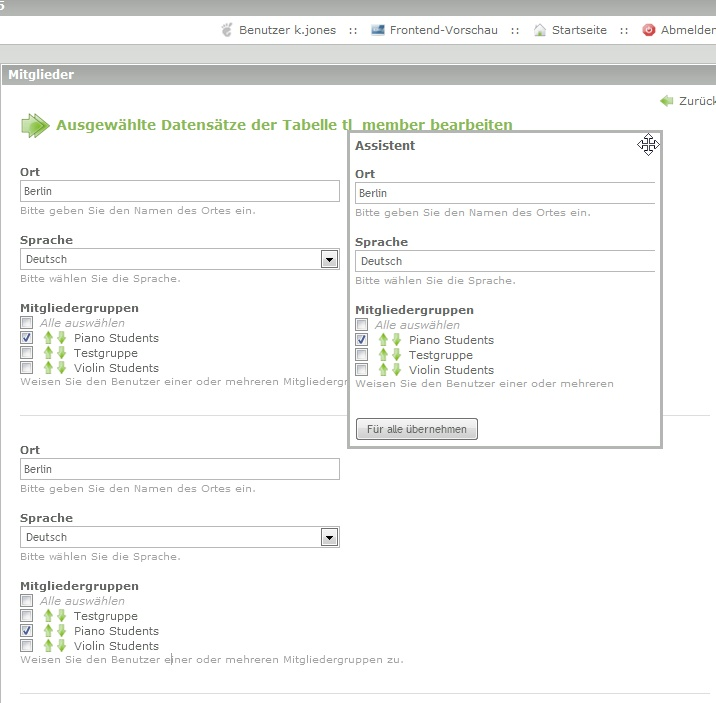
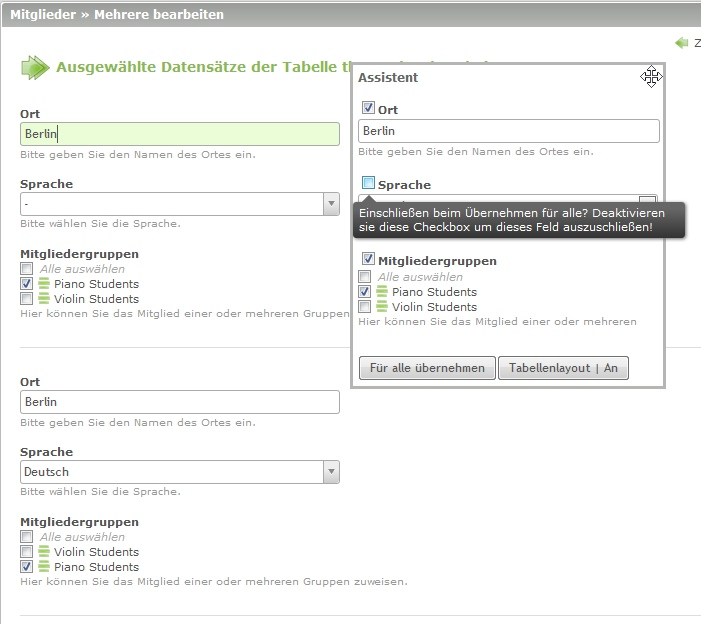
Fixes some CSS and JS Problems and adds excluding fields when applying to all

Changed region(s): [[0.0, 0.0, 1.0, 0.6394], [0.03, 0.609, 0.5692, 0.9439]]

diff --git a/system/modules/BackendMultiEditAssistant/html/assistant.js b/system/modules/BackendMultiEditAssistant/html/assistant.js
@@ -1,12 +1,12 @@
 window.addEvent('domready',function(){var assistant=new Element('div',{'class':'tl_assistant','id':'multiEditAssistant'}).inject($('main'));var assistantContainer=new Element('div',{'class':'tl_assistant_container'}).inject(assistant);var firstElement=null;var elements=$('main').getElements('.tl_form')[0].getElements('.tl_tbox');if(elements.length>0){Array.each(elements,function(element){if(firstElement==null){firstElement=element;}});}
-var clone=firstElement.clone(true,true).cloneEvents(firstElement);clone.inject(assistantContainer);var fields=clone.getElements('[id^=ctrl_]');Array.each(fields,function(field){field.id=field.id.substring(0,field.id.lastIndexOf("_"));field.addEvent("click",function(){field.focus();});});fields=clone.getElements('[id^=opt_]');Array.each(fields,function(field){field.id=field.id.substring(0,field.id.lastIndexOf("_"));field.id=field.id.substring(0,field.id.lastIndexOf("_"));});fields=clone.getElements('[id^=check_all_]');Array.each(fields,function(field){field.id=field.id.substring(0,field.id.lastIndexOf("_"));var id="ctrl"+field.id.substring(field.id.lastIndexOf("_"),field.id.lenth);field.onclick=function(){Backend.toggleCheckboxGroup(this,id);};});new Drag.Move(assistant);assistant.style.top=(firstElement.offsetTop-clone.offsetTop)+"px";new Element('input',{'type':'submit','value':backendMultiEditAssistantButtonApplyToAll,'onclick':'backendMultiEditAssistantApplyToAll()'}).inject(assistantContainer);new Element('input',{'id':'buttonTableLayout','type':'submit','value':backendMultiEditAssistantButtonTableLayoutOn,'onclick':'backendMultiEditAssistantSwitchTableLayout()'}).inject(assistantContainer);if(isTablelayoutActive()){setTablelayoutBoxWidth();setTablelayoutTooltips();hideTablelayoutIncompatibleFields();$("buttonTableLayout").value=backendMultiEditAssistantButtonTableLayoutOff;}else{$("buttonTableLayout").value=backendMultiEditAssistantButtonTableLayoutOn;}
+var clone=firstElement.clone(true,true).cloneEvents(firstElement);clone.inject(assistantContainer);var fields=clone.getElements('div.tl_chosen');Array.each(fields,function(field){field.destroy();});fields=clone.getElements('[id^=ctrl_]');Array.each(fields,function(field){field.id=field.id.substring(0,field.id.lastIndexOf("_"));field.addEvent("click",function(){field.focus();});});fields=clone.getElements('[id^=opt_]');Array.each(fields,function(field){field.id=field.id.substring(0,field.id.lastIndexOf("_"));field.id=field.id.substring(0,field.id.lastIndexOf("_"));});fields=clone.getElements('[id^=check_all_]');Array.each(fields,function(field){field.id=field.id.substring(0,field.id.lastIndexOf("_"));var id="ctrl"+field.id.substring(field.id.lastIndexOf("_"),field.id.lenth);field.onclick=function(){Backend.toggleCheckboxGroup(this,id);};});fields=clone.getElements('h3');Array.each(fields,function(field){new Element('input',{'id':'include_'+field.getNext('[id^=ctrl_]').id,'type':'checkbox','checked':true,'title':backendMultiEditAssistantCheckboxIncludeWhenApplayingToAll}).inject(field,'top');});fields=clone.getElements('legend');Array.each(fields,function(field){new Element('input',{'id':'include_'+field.getParent('[id^=ctrl_]').id,'type':'checkbox','checked':true,'title':backendMultiEditAssistantCheckboxIncludeWhenApplayingToAll}).inject(field,'top');});new Drag.Move(assistant);assistant.style.top=(firstElement.offsetTop-clone.offsetTop)+"px";new Element('input',{'type':'submit','value':backendMultiEditAssistantButtonApplyToAll,'onclick':'backendMultiEditAssistantApplyToAll()'}).inject(assistantContainer);new Element('input',{'id':'buttonTableLayout','type':'submit','value':backendMultiEditAssistantButtonTableLayoutOn,'onclick':'backendMultiEditAssistantSwitchTableLayout()'}).inject(assistantContainer);if(isTablelayoutActive()){setTablelayoutBoxWidth();setTablelayoutTooltips();hideTablelayoutIncompatibleFields();$("buttonTableLayout").value=backendMultiEditAssistantButtonTableLayoutOff;}else{$("buttonTableLayout").value=backendMultiEditAssistantButtonTableLayoutOn;}
 $$('#multiEditAssistant p.tl_tip').each(function(el)
 {el.addEvent('mouseover',function()
 {el.timo=setTimeout(function()
 {var box=$('tl_helpBox');if(box)
 {box.setStyle('left',(el.getLeft())+'px');box.setStyle('margin-left',0);}},1050);});el.addEvent('mouseout',function()
 {var box=$('tl_helpBox');if(box)
-{box.setStyle('left',null);box.setStyle('margin-left',null);}});});Backend.addInteractiveHelp();});function backendMultiEditAssistantApplyToAll(){var assitantFields=$('multiEditAssistant').getElements('[id^=ctrl_]');Array.each(assitantFields,function(assitantField){var fields=$('main').getElements('.tl_form')[0].getElements('[id^='+assitantField.id+']');Array.each(fields,function(field){field.value=assitantField.value;});});assitantFields=$('multiEditAssistant').getElements('[id^=opt_]');Array.each(assitantFields,function(assitantField){var fields=$('main').getElements('.tl_form')[0].getElements('[id^='+assitantField.id+']');Array.each(fields,function(field){if(field.value==assitantField.value){field.checked=assitantField.checked;}});});}
+{box.setStyle('left',null);box.setStyle('margin-left',null);}});});Backend.addInteractiveHelp();});function backendMultiEditAssistantApplyToAll(){var assitantFields=$('multiEditAssistant').getElements('[id^=ctrl_]');Array.each(assitantFields,function(assitantField){var includeCheckbox=$('include_'+assitantField.id);if(includeCheckbox.checked){var fields=$('main').getElements('.tl_form')[0].getElements('[id^='+assitantField.id+']');Array.each(fields,function(field){field.value=assitantField.value;});}});assitantFields=$('multiEditAssistant').getElements('[id^=opt_]');Array.each(assitantFields,function(assitantField){var includeCheckbox=$('include_'+assitantField.getParent('[id^=ctrl_]').id);if(includeCheckbox.checked){var fields=$('main').getElements('.tl_form')[0].getElements('[id^='+assitantField.id+']');Array.each(fields,function(field){if(field.value==assitantField.value){field.checked=assitantField.checked;}});}});}
 function backendMultiEditAssistantSwitchTableLayout(){if(isTablelayoutActive()){sheet=document.getElementById("tablelayout")
 sheet.parentNode.removeChild(sheet);removeTablelayoutBoxWidth();removeTablelayoutTooltips();showTablelayoutIncompatibleFields();$("buttonTableLayout").value=backendMultiEditAssistantButtonTableLayoutOn;}else{Asset.css("system/modules/BackendMultiEditAssistant/html/tablelayout.css",{id:"tablelayout",onLoad:function(){setTablelayoutBoxWidth();setTablelayoutTooltips();hideTablelayoutIncompatibleFields();}});$("buttonTableLayout").value=backendMultiEditAssistantButtonTableLayoutOff;}}
 function isTablelayoutActive(){var styleSheets=document.getElementsByTagName("link");for(var i=0;i<styleSheets.length;i++){if(styleSheets[i]!=null&&styleSheets[i].href!=null&&styleSheets[i].href.search("tablelayout.css")>-1){styleSheets[i].setAttribute("id","tablelayout");return true;}}

diff --git a/system/modules/BackendMultiEditAssistant/html/tablelayout.css b/system/modules/BackendMultiEditAssistant/html/tablelayout.css
@@ -1,1 +1,1 @@
-.tl_formbody_edit { overflow-x: scroll; padding-bottom: 5px; } .tl_formbody_edit .tl_tbox, .tl_formbody_edit .tl_box { border: 0 none; padding: 0; white-space: nowrap; float: left; clear: left; } .tl_formbody_edit .tl_tbox > div, .tl_formbody_edit .tl_box > div, .tl_formbody_edit .tl_tbox div[id*='sub_'] > div, .tl_formbody_edit .tl_box div[id*='sub_'] > div { float: left; overflow: hidden; width: 130px; } .tl_formbody_edit .tl_tbox div[id*='sub_'], .tl_formbody_edit .tl_box div[id*='sub_'] { width: auto; } .tl_formbody_edit .tl_tbox:hover, .tl_formbody_edit .tl_box:hover { background-color: #8AB858 } .tl_formbody_edit .tl_box > div h3, .tl_formbody_edit .tl_tbox > div p.tl_help, .tl_formbody_edit .tl_box > div p.tl_help { display: none; } .tl_formbody_edit .tl_text { width: 91%; } .tl_formbody_edit .tl_text_2 { width: 42%; } .tl_formbody_edit .tl_select { width: 94%; } .tl_formbody_edit .styled_select { width: 120px; } .tl_formbody_edit .tl_textarea { width: 91%; } .tl_formbody_edit input.calendar, .tl_formbody_edit select.calendar { width: 77%; } .tl_formbody_edit .tl_tbox div.tl_checkbox_single_container { margin-top: 33px; overflow: hidden; width: 95%; } .tl_formbody_edit .tl_box div.tl_checkbox_single_container { margin-top: 4px; overflow: hidden; width: 95%; } .tl_formbody_edit div.tl_checkbox_container, .tl_formbody_edit div.tl_radio_container { height: 40px; overflow-x: hidden; overflow-y: scroll; width: 96%; } .tl_formbody_edit .tl_tbox > div h3 { overflow: hidden; width: 100%; } .tl_formbody_edit .tl_tbox h3 label { display: inline-block; overflow: hidden; width: 105px; } .tl_formbody_edit .tl_tbox:hover h3 { background-color: #ffffff; } .tl_formbody_edit label { cursor: help; } .w50 { width: 48%; }
+.tl_formbody_edit { overflow-x: scroll; padding-bottom: 5px; } .tl_formbody_edit .tl_tbox, .tl_formbody_edit .tl_box { border: 0 none; padding: 0; white-space: nowrap; float: left; clear: left; } .tl_formbody_edit .tl_tbox > div, .tl_formbody_edit .tl_box > div, .tl_formbody_edit .tl_tbox div[id*='sub_'] > div, .tl_formbody_edit .tl_box div[id*='sub_'] > div { float: left; overflow: hidden; width: 130px; } .tl_formbody_edit .tl_tbox div[id*='sub_'], .tl_formbody_edit .tl_box div[id*='sub_'] { width: auto; } .tl_formbody_edit .tl_tbox:hover, .tl_formbody_edit .tl_box:hover { background-color: #8AB858 } .tl_formbody_edit .tl_box > div h3, .tl_formbody_edit .tl_tbox > div p.tl_help, .tl_formbody_edit .tl_box > div p.tl_help { display: none; } .tl_formbody_edit .tl_text { width: 91%; } .tl_formbody_edit .tl_text_2 { width: 42%; } .tl_formbody_edit .tl_select { display: block !important; height: 24px; opacity: 100 !important; visibility: visible !important; width: 94%; } .tl_formbody_edit .styled_select, .tl_formbody_edit div.tl_chosen { display: none !important; } .tl_formbody_edit .tl_textarea { width: 91% !important; } .tl_formbody_edit input.calendar, .tl_formbody_edit select.calendar { width: 77%; } .tl_formbody_edit .tl_tbox div.tl_checkbox_single_container { margin-top: 33px; overflow: hidden; width: 95%; } .tl_formbody_edit .tl_box div.tl_checkbox_single_container { margin-top: 4px; overflow: hidden; width: 95%; } .tl_formbody_edit div.tl_checkbox_container, .tl_formbody_edit div.tl_radio_container { height: 40px; overflow-x: hidden; overflow-y: scroll; width: 96%; } .tl_formbody_edit .tl_tbox > div h3 { overflow: hidden; width: 100%; } .tl_formbody_edit .tl_tbox h3 label { display: inline-block; overflow: hidden; width: 105px; } .tl_formbody_edit .tl_tbox:hover h3 { background-color: #ffffff; } .tl_formbody_edit label { cursor: help; } .w50 { width: 48%; }

diff --git a/system/modules/BackendMultiEditAssistant/html/assistant_src.js b/system/modules/BackendMultiEditAssistant/html/assistant_src.js
@@ -48,14 +48,21 @@ window.addEvent('domready', function() {
 	var clone = firstElement.clone(true, true).cloneEvents(firstElement);
 	clone.inject(assistantContainer);
 	
+	// remove choosen options
+	var fields = clone.getElements('div.tl_chosen');
+	Array.each(fields, function(field){
+		field.destroy();
+	});
+	
 	// reset ids starting with "ctrl_"
-	var fields = clone.getElements('[id^=ctrl_]');
+	fields = clone.getElements('[id^=ctrl_]');
 	Array.each(fields, function(field){
 		field.id = field.id.substring(0, field.id.lastIndexOf("_"));
 		field.addEvent("click", function() {
 			field.focus();
-        });
+		});
 	});
+	
 	// reset ids starting with "opt_"
 	fields = clone.getElements('[id^=opt_]');
 	Array.each(fields, function(field){
@@ -63,12 +70,33 @@ window.addEvent('domready', function() {
 		// do it twice to remove record id and option index
 		field.id = field.id.substring(0, field.id.lastIndexOf("_"));
 	});
+	
 	// reset ids starting with "check_all_"
 	fields = clone.getElements('[id^=check_all_]');
 	Array.each(fields, function(field){
 		field.id = field.id.substring(0, field.id.lastIndexOf("_"));
 		var id = "ctrl" + field.id.substring(field.id.lastIndexOf("_"), field.id.lenth);
 		field.onclick = function() {Backend.toggleCheckboxGroup(this, id);};
+	});
+	
+	// Add checkboxes to headline (for exluding when applying to all)
+	fields = clone.getElements('h3');
+	Array.each(fields, function(field){
+		new Element('input', {
+			'id': 'include_' + field.getNext('[id^=ctrl_]').id,
+			'type': 'checkbox',
+			'checked': true,
+			'title': backendMultiEditAssistantCheckboxIncludeWhenApplayingToAll
+		}).inject(field, 'top');
+	});
+	fields = clone.getElements('legend');
+	Array.each(fields, function(field){
+		new Element('input', {
+			'id': 'include_' + field.getParent('[id^=ctrl_]').id,
+			'type': 'checkbox',
+			'checked': true,
+			'title': backendMultiEditAssistantCheckboxIncludeWhenApplayingToAll
+		}).inject(field, 'top');
 	});
 
 	new Drag.Move(assistant);
@@ -128,21 +156,27 @@ function backendMultiEditAssistantApplyToAll () {
 	// setting assistent fields starting with "ctrl_"
 	var assitantFields = $('multiEditAssistant').getElements('[id^=ctrl_]');
 	Array.each(assitantFields, function(assitantField){
-		var fields = $('main').getElements('.tl_form')[0].getElements('[id^=' + assitantField.id + ']');
-		Array.each(fields, function(field){
-			field.value = assitantField.value;
-		});
+		var includeCheckbox = $('include_' + assitantField.id);
+		if (includeCheckbox.checked) {
+			var fields = $('main').getElements('.tl_form')[0].getElements('[id^=' + assitantField.id + ']');
+			Array.each(fields, function(field){
+				field.value = assitantField.value;
+			});
+		}
 	});
 
 	// setting assistent fields starting with "opt_"
 	assitantFields = $('multiEditAssistant').getElements('[id^=opt_]');
 	Array.each(assitantFields, function(assitantField){
-		var fields = $('main').getElements('.tl_form')[0].getElements('[id^=' + assitantField.id + ']');
-		Array.each(fields, function(field){
-			if (field.value == assitantField.value) {
-				field.checked = assitantField.checked;
-			}
-		});
+		var includeCheckbox = $('include_' + assitantField.getParent('[id^=ctrl_]').id);
+		if (includeCheckbox.checked) {
+			var fields = $('main').getElements('.tl_form')[0].getElements('[id^=' + assitantField.id + ']');
+			Array.each(fields, function(field){
+				if (field.value == assitantField.value) {
+					field.checked = assitantField.checked;
+				}
+			});
+		}
 	});
 }
 

diff --git a/system/modules/BackendMultiEditAssistant/html/assistant.css b/system/modules/BackendMultiEditAssistant/html/assistant.css
@@ -1,1 +1,1 @@
-#multiEditAssistant { border: 0 none; cursor: move; background-color: #ffffff; left: 10px; position: fixed; } .tl_assistant_container:before { color: #666966; font-size: 12px; font-weight: bold; margin-bottom: 5px; } .tl_assistant_container { background: url("move.png") no-repeat scroll right top #ffffff; border: 3px solid #b3b6b3; min-width: 90px; padding: 5px; width: 300px; } .tl_assistant_container .tl_tbox { clear: both; } .tl_assistant_container .tl_tbox .tl_text{ width: 98%; } .tl_assistant_container .tl_tbox .tl_select, .tl_assistant_container .tl_tbox .tl_mselect{ width: 100%; } .tl_assistant_container .tl_tbox .styled_select { width: 95%; }
+#multiEditAssistant { border: 0 none; cursor: move; background-color: #ffffff; left: 10px; position: fixed; } .tl_assistant_container:before { color: #666966; font-size: 12px; font-weight: bold; margin-bottom: 5px; } .tl_assistant_container { background: url("move.png") no-repeat scroll right top #ffffff; border: 3px solid #b3b6b3; min-width: 90px; padding: 5px; width: 300px; } .tl_assistant_container .tl_tbox { clear: both; } .tl_assistant_container .tl_tbox .tl_text, .tl_assistant_container .tl_tbox .tl_textarea { width: 98%; } .tl_assistant_container .tl_tbox select.tl_chosen, .tl_assistant_container .tl_tbox .tl_select, .tl_assistant_container .tl_tbox .tl_mselect { display: block !important; height: 24px; opacity: 100 !important; visibility: visible !important; width: 100%; } .tl_assistant_container .tl_tbox .styled_select, .tl_assistant_container .tl_tbox div.tl_chosen { display: none !important; }

diff --git a/system/modules/BackendMultiEditAssistant/html/assistant_src.css b/system/modules/BackendMultiEditAssistant/html/assistant_src.css
@@ -48,15 +48,22 @@
 	clear: both;
 }
 
-.tl_assistant_container .tl_tbox .tl_text{
+.tl_assistant_container .tl_tbox .tl_text,
+.tl_assistant_container .tl_tbox .tl_textarea {
 	width: 98%;
 }
 
+.tl_assistant_container .tl_tbox select.tl_chosen,
 .tl_assistant_container .tl_tbox .tl_select,
-.tl_assistant_container .tl_tbox .tl_mselect{
+.tl_assistant_container .tl_tbox .tl_mselect {
+	display: block !important;
+	height: 24px;
+	opacity: 100 !important;
+	visibility: visible !important;
 	width: 100%;
 }
 
-.tl_assistant_container .tl_tbox .styled_select {
-    width: 95%;
+.tl_assistant_container .tl_tbox .styled_select,
+.tl_assistant_container .tl_tbox div.tl_chosen {
+    display: none !important;
 }

diff --git a/system/modules/BackendMultiEditAssistant/html/tablelayout_src.css b/system/modules/BackendMultiEditAssistant/html/tablelayout_src.css
@@ -76,15 +76,20 @@
 }
 
 .tl_formbody_edit .tl_select {
+	display: block !important;
+	height: 24px;
+	opacity: 100 !important;
+	visibility: visible !important;
 	width: 94%;
 }
 
-.tl_formbody_edit .styled_select {
-	width: 120px;
+.tl_formbody_edit .styled_select,
+.tl_formbody_edit div.tl_chosen {
+	display: none !important;
 }
 
 .tl_formbody_edit .tl_textarea {
-	width: 91%;
+	width: 91% !important;
 }
 
 .tl_formbody_edit  input.calendar,

diff --git a/system/modules/BackendMultiEditAssistant/BackendMultiEditAssistant.php b/system/modules/BackendMultiEditAssistant/BackendMultiEditAssistant.php
@@ -77,6 +77,7 @@ class BackendMultiEditAssistant extends Backend
 																																		 . "';var backendMultiEditAssistantButtonTableLayoutOn = '" . $GLOBALS['TL_LANG']['MSC']['BackendMultiEditAssistantButtonTableLayoutOn']
 																																		 . "';var backendMultiEditAssistantButtonTableLayoutOff = '" . $GLOBALS['TL_LANG']['MSC']['BackendMultiEditAssistantButtonTableLayoutOff']
 																																		 . "';var backendMultiEditAssistantButtonTableLayoutMessageHidedElements = '" . $GLOBALS['TL_LANG']['MSC']['BackendMultiEditAssistantButtonTableLayoutMessageHidedElements']
+																																		 . "';var backendMultiEditAssistantCheckboxIncludeWhenApplayingToAll = '" . $GLOBALS['TL_LANG']['MSC']['backendMultiEditAssistantCheckboxIncludeWhenApplayingToAll']
  																		 . "';</script>\n$0", $strContent, 1);
 		}
 		return $strContent;

diff --git a/system/modules/BackendMultiEditAssistant/languages/de/default.php b/system/modules/BackendMultiEditAssistant/languages/de/default.php
@@ -39,5 +39,6 @@ $GLOBALS['TL_LANG']['MSC']['BackendMultiEditAssistantButtonTableLayoutOff'] = 'T
  * Messages
  */
 $GLOBALS['TL_LANG']['MSC']['BackendMultiEditAssistantButtonTableLayoutMessageHidedElements'] = 'ACHTUNG: Einige Elemente werden nicht angezeigt, weil die Darstellung in der Tabelle nicht möglich ist!';
+$GLOBALS['TL_LANG']['MSC']['backendMultiEditAssistantCheckboxIncludeWhenApplayingToAll']     = 'Einschließen beim Übernehmen für alle? Deaktivieren sie diese Checkbox um dieses Feld auszuschließen!';
 
 ?>

diff --git a/system/modules/BackendMultiEditAssistant/languages/en/default.php b/system/modules/BackendMultiEditAssistant/languages/en/default.php
@@ -39,5 +39,6 @@ $GLOBALS['TL_LANG']['MSC']['BackendMultiEditAssistantButtonTableLayoutOff'] = 'T
  * Messages
  */
 $GLOBALS['TL_LANG']['MSC']['BackendMultiEditAssistantButtonTableLayoutMessageHidedElements'] = 'ATTENTION: Some fields are not shown because displaying them in the table is not possible!';
+$GLOBALS['TL_LANG']['MSC']['backendMultiEditAssistantCheckboxIncludeWhenApplayingToAll']     = 'Include when applying to all? Deselect this checkbox to exclude this field!';
 
 ?>
